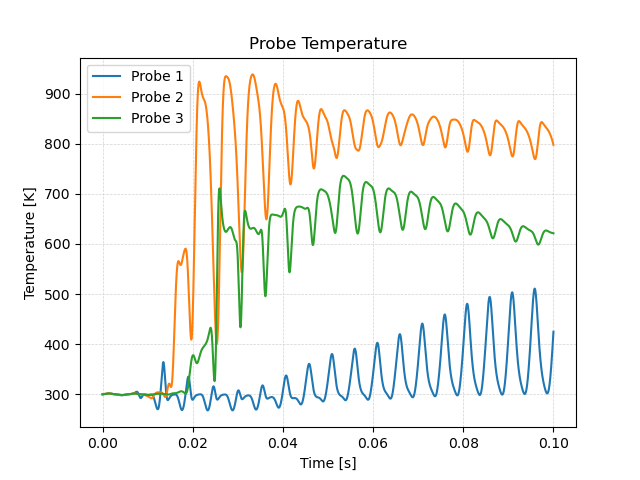
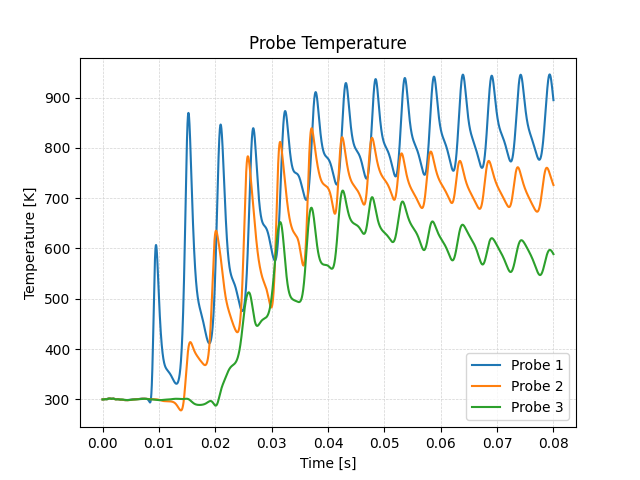
egr: updated solving section

diff --git a/0_attachments/6_exhaust_gas_recirculation/1_exhaust_gas_recirculation/create_plots.py b/0_attachments/6_exhaust_gas_recirculation/1_exhaust_gas_recirculation/create_plots.py
@@ -84,7 +84,7 @@ time, avg_T = np.genfromtxt(
     )
 
 # Plot residuals
-plt.plot(time, avg_T, label="Average temperatur")
+plt.plot(time, avg_T, label="Average temperature")
 
 # Grid lines
 plt.grid(linewidth=0.5, color="lightgrey", linestyle="dashed")
@@ -114,7 +114,7 @@ time, max_T = np.genfromtxt(
     )
 
 # Plot residuals
-plt.plot(time, max_T, label="Maximum temperatur")
+plt.plot(time, max_T, label="Maximum temperature")
 
 # Grid lines
 plt.grid(linewidth=0.5, color="lightgrey", linestyle="dashed")

diff --git a/6_exhaust_gas_recirculation/2_solving.md b/6_exhaust_gas_recirculation/2_solving.md
@@ -10,7 +10,7 @@ nav_order: 2
 
 ## Running in Parallel
 
-By default, OpenFOAM does only run on a single CPU core on a computer (e.g. it runs in serial). Even for smaller cases this might lead to long computational times. For example, the mesh for this simulation consists of about 80.000 cells. A simulation on a single CPU core would take about 24 min to finish. In contrast, most modern workstation computer and laptops come equipped with 8 - 16 CPU cores (not including hyperthreading). So it would just make sense to run OpenFOAM in parallel using several CPU cores at once to speed up the simulation.
+By default, OpenFOAM only runs on a single CPU core on a computer (e.g. it runs in serial). Even for smaller cases this might lead to long computational times. For example, the mesh for this simulation consists of about 80,000 cells. A simulation on a single CPU core would take about 24 min to finish. In contrast, most modern workstation computers and laptops come equipped with 8 - 16 CPU cores (not including hyperthreading). So it would just make sense to run OpenFOAM in parallel using several CPU cores at once to speed up the simulation.
 
 Using OpenFOAM in parallel consists of three steps:
  1. Decomposing the mesh and initial/boundary conditions into individual processor folders,
@@ -19,7 +19,7 @@ Using OpenFOAM in parallel consists of three steps:
 
 ### 1. Decomposing the case
 
-At first, the computational mesh (e.g. the `constant/polyMesh` directory) and the intial and boundary conditions (typically the `0` folder) have to be decomposed into $$n$$ separate parts or sub-domains, where $$n$$ is the number of CPU cores to be used. This way, each CPU core gets a separate portion of the overall simulation domain. During a parallel run, a CPU core does only solve the governing equation in the assigned computational sub-domain.
+At first, the computational mesh (e.g. the `constant/polyMesh` directory) and the initial and boundary conditions (typically the `0` folder) have to be decomposed into $$n$$ separate parts or sub-domains, where $$n$$ is the number of CPU cores to be used. This way, each CPU core gets a separate portion of the overall simulation domain. During a parallel run, a CPU core only solves the governing equations in its assigned computational sub-domain.
 
 The number of sub-domains is configured in the `decomposeParDict` in the `system` folder, which has the following content:
 
@@ -31,7 +31,7 @@ numberOfSubdomains  4;
 method              scotch;
 ```
 
-For this simulation, the number of sub-domains is set to 4 and the decomposition is computed using the `scotch` algorithm, which automatically tries to minimze the processor-processor communication for parallel computation. The decomposition itself can be performed using the following command:
+For this simulation, the number of sub-domains is set to 4 and the decomposition is computed using the `scotch` algorithm, which automatically tries to minimize the processor-processor communication for parallel computation. The decomposition itself can be performed using the following command:
 
 ```bash
 decomposePar
@@ -43,13 +43,13 @@ Decomposing the exhaust gas recirculation system case for running in parallel re
 
 
 {: .note }
-> If the case has already been decomposed with `decomposePar`, running the tool again will result in an error as there are already processor folders present. In order to automatically remove old processor folders and decompse the case once again, an additional option can be sued when decomposing the case: `decomposePar -force`.
+> If the case has already been decomposed with `decomposePar`, running the tool again will result in an error as there are already processor folders present. In order to automatically remove old processor folders and decompose the case once again, an additional option can be used when decomposing the case: `decomposePar -force`.
 
 
 
 ### 2. Run in parallel
 
-Once the case has been decomposed, it can be solved in parallel using mpi (Message Passing Interface), which organizes the processor-processor communication. Instead of just typing `foamRun` into the terminal, for a parallel execution the command is as follows:
+Once the case has been decomposed, it can be solved in parallel using MPI (Message Passing Interface), which organizes the processor-processor communication. Instead of just typing `foamRun` into the terminal, for a parallel execution the command is as follows:
 
 ```bash
 mpirun -np 4 foamRun -parallel
@@ -57,7 +57,7 @@ mpirun -np 4 foamRun -parallel
 
 Here, `mpirun` takes care of the parallel execution, `-np 4` is an additional option specifying the number of processors used (here: 4), `foamRun` is the executable run in parallel and `-parallel` an additional option, so OpenFOAM knows to run the solver in parallel. Results folders created during parallel execution are stored in their respective processor folder. Furthermore, post-processing function objects are stored as normal in the `postProcessing` directory.
 
-The progress of the job is written to the terminal window like normal. It tells the user the current time step (e.g. iteration in steady-state simulations), the equations being solved, initial and final residuals for all fields and should look like follows:
+The progress of the job is written to the terminal window as normal. It tells the user the current time step (e.g. iteration in steady-state simulations), the equations being solved, initial and final residuals for all fields and should look as follows:
 
 
 ```
@@ -86,12 +86,12 @@ This output at time 0.08 tells us in summary:
  - Mean and maximum Courant number in the computational domain.
  - The solvers being used for the different governing equations, initial and final residuals, and the number of iterations per time step.
  - The error of the conservation of mass is denoted as `continuity error`. Since its value is very small, conservation of mass is maintained.
- - The execution time for the simulation up to this iteration is roughly 499 seconds as indicated by the `ExecutionTime`.
+ - The execution time for the simulation up to this iteration is roughly 482 seconds as indicated by the `ExecutionTime`.
 
 
 ### 3. Reconstructing the case
 
-Once the simulation has finished, the results can be visualized in ParaView, since ParaView can both visualize decomposed and reconstructed OpenFOAM data. However, it is highly recommended to reconstruct the individual subdomains back into a overall complete domain before continuing the post-processing. This way, the number of stored files and required storage space can be reduced and the case folder is less confusing. In order to reconstruct the subdomains, the following command is used:
+Once the simulation has finished, the results can be visualized in ParaView, since ParaView can both visualize decomposed and reconstructed OpenFOAM data. However, it is highly recommended to reconstruct the individual subdomains back into an overall complete domain before continuing the post-processing. This way, the number of stored files and required storage space can be reduced and the case folder is less confusing. In order to reconstruct the subdomains, the following command is used:
 
 ```bash
 reconstructPar
@@ -134,6 +134,7 @@ Four function objects are defined in the `functions` file in the `system` folder
     patch   = outlet,
     fields  = (T)
 )
+
 #includeFunc cellMax
 (
     name    = maxT,
@@ -141,40 +142,52 @@ Four function objects are defined in the `functions` file in the `system` folder
 )
 ```
 
-The `residuals` object writes the initial residuals of `(p U h k omega)`, so pressure, velocity, enthalpy, turbulent kinetic energy and specific dissipation rate, to `postProcessing/residuals/0/residuals.dat` at every time step.
+In addition to the `residuals` object known from previous tutorials, three new function objects are introduced to monitor the thermal behaviour of the flow: `probes` records temperature at discrete points in the domain, `patchAverage` computes the area-weighted mean temperature at the outlet, and `cellMax` tracks the global maximum temperature. All four write their data into the `postProcessing` directory at every time step.
 
-The `probes` function object evaluates temperature at pre-defined monitor points and stores it under `postProcessing/probes/0/T`. In this case, three points are defined just below where the exhaust pipe intersects with the air pipe and further downstream as shown in the following figure:
+In order to quickly evaluate the monitored data, a script called `create_plots.py` is provided in the case directory. After the simulation has finished, execute it to automatically create the diagrams:
 
-![Exhaust gas recirculation system case probe locations](figures/exhaust-gas-recirculation-probes.png)
-
-The `patchAverage` function object evaluates the average temperature at the outlet patch and writes it to `postProcessing/avgT/0/surfaceFieldValue.dat`. The `cellMax` function object tracks the maximum temperature in the computational domain and stores it under `postProcessing/maxT/0/volFieldValue.dat`,
-
-In order to quickly evaluate the monitored data, a script is added to the diffuser case directory called `create_plots.py`. Executing it will automatically create the diagrams and store them as png file.
+```bash
+python3 create_plots.py
+```
 
 
+### Residuals
+
+The `residuals` function object writes the initial residuals of pressure, velocity, enthalpy, turbulent kinetic energy and specific dissipation rate to `postProcessing/residuals/0/residuals.dat`. Note that compared to the incompressible tutorials, the enthalpy residual `h` appears here for the first time, reflecting the additional energy equation solved by the compressible `fluid` solver.
 
 The following diagram shows the residuals on the $$y$$-axis plotted against time on the $$x$$-axis:
 
-![Exhaust gas recirculation system case residuals](figures/diagram-residuals.png)
+![Exhaust gas recirculation case residuals](figures/diagram-residuals.png)
 
-The plot shows that while there is a clear trend in falling residuals, this trend is superimposed by large oscillations. This indicates that this is a stronly transient flow with no stationary state.
+The plot shows that while there is a clear trend of falling residuals, this trend is superimposed by large oscillations. This indicates a strongly transient flow with no stationary state. Pressure residuals oscillate most prominently, which is typical for flows with periodic vortex shedding.
 
-The diagram of the temperature over time for the individual probe points is follows:
 
-![Exhaust gas recirculation system case probe temperature](figures/diagram-probes.png)
+### Probe Temperatures
 
-It takes about 0.01 seconds until the hot exhaust gas reaches the location of the probe points. Then, their temperature rises quickly. At the end of the simulation, directly below the t-junction at probe 1, the temperature is highest with a maximum of over $$900\,\text{K}$$. Probe 2 has the somewhat lower temperature values of around $$750\,\text{K}$$. However, probe 3 monitores the lowest temperaturewith values below $$600\,\text{K}$$ due to the mixing of cold air and hot exhaust gas.
+The `probes` function object evaluates temperature at three pre-defined monitor points and stores the data under `postProcessing/probes/0/T`. The three probes are placed along the centreline of the horizontal pipe, spaced 30 mm apart in the vicinity of the exhaust gas junction as shown in the following figure:
 
-The average temperature at the outlet patch is shown next:
+![Exhaust gas recirculation case probe locations](figures/exhaust-gas-recirculation-probes.png)
 
-![Exhaust gas recirculation system case outlet temperature](figures/diagram-outlet-temperature.png)
+The resulting temperature history is as follows:
 
-Similar to the previous plots, these results indicate a strongly transient flow problem with an average temperature of about $$400\,\text{K}$$.
+![Exhaust gas recirculation case probe temperatures](figures/diagram-probes.png)
 
-The maximum temperature in the copmutational domain is as follows:
+It takes about 0.01 seconds until the hot exhaust gas reaches the probe locations. Then, their temperatures rise quickly but at different rates depending on the proximity to the exhaust jet core. At the end of the simulation, probe 2 (directly at the exhaust junction) records the highest temperature of around $$800\,\text{K}$$, as it sits in the core of the hot exhaust stream. Probe 3 (further downstream) reaches intermediate values of around $$620\,\text{K}$$ due to progressive mixing of cold air and hot exhaust gas. Probe 1 (upstream of the junction) shows the lowest mean temperature with heavy oscillations between roughly $$300$$ and $$500\,\text{K}$$, as the recirculating flow alternately sweeps hot exhaust gas and cold air past this location.
 
-![Exhaust gas recirculation system case outlet temperature](figures/diagram-max-temperature.png)
 
-Note that the maximum is actually above the inlet temperatures of $$900\,\text{K}$$. This is **unphysical** and needs further investigation. It is probably due to the unlimited gradient in the second order upwind discretication scheme.
+### Average Outlet Temperature
 
-This concludes the setup of the exhaust gas recirculation system and the configuration of function objects for runtime postpressing.
+The `patchAverage` function object evaluates the area-weighted average temperature at the outlet patch and writes it to `postProcessing/avgT/0/surfaceFieldValue.dat`. The result is shown in the following diagram:
+
+![Exhaust gas recirculation case average outlet temperature](figures/diagram-outlet-temperature.png)
+
+The outlet remains at the initial temperature of $$300\,\text{K}$$ for about 0.035 seconds until the first hot exhaust gas reaches the outlet. Similar to the residuals, the oscillating average outlet temperature confirms a strongly transient flow. By the end of the simulation, the average outlet temperature is about $$400\,\text{K}$$.
+
+
+### Maximum Temperature
+
+The `cellMax` function object tracks the maximum temperature across the entire computational domain and stores it under `postProcessing/maxT/0/volFieldValue.dat`. The result is as follows:
+
+![Exhaust gas recirculation case maximum temperature](figures/diagram-max-temperature.png)
+
+The maximum temperature rises sharply to about $$920\,\text{K}$$ within the first 0.005 seconds, then gradually increases to approximately $$970\,\text{K}$$. Note that this value exceeds the exhaust gas inlet temperature of $$900\,\text{K}$$, which is **unphysical**. Since no heat source is present in the domain, the temperature should never exceed the boundary values. This overshoot is caused by the unlimited gradient reconstruction used in the second-order upwind discretization scheme, which can produce local overshoots (so-called *Gibbs phenomena*) in regions with steep temperature gradients, such as the interface between the cold air and the hot exhaust gas. This issue will be addressed in the exercise by applying gradient limiting.
